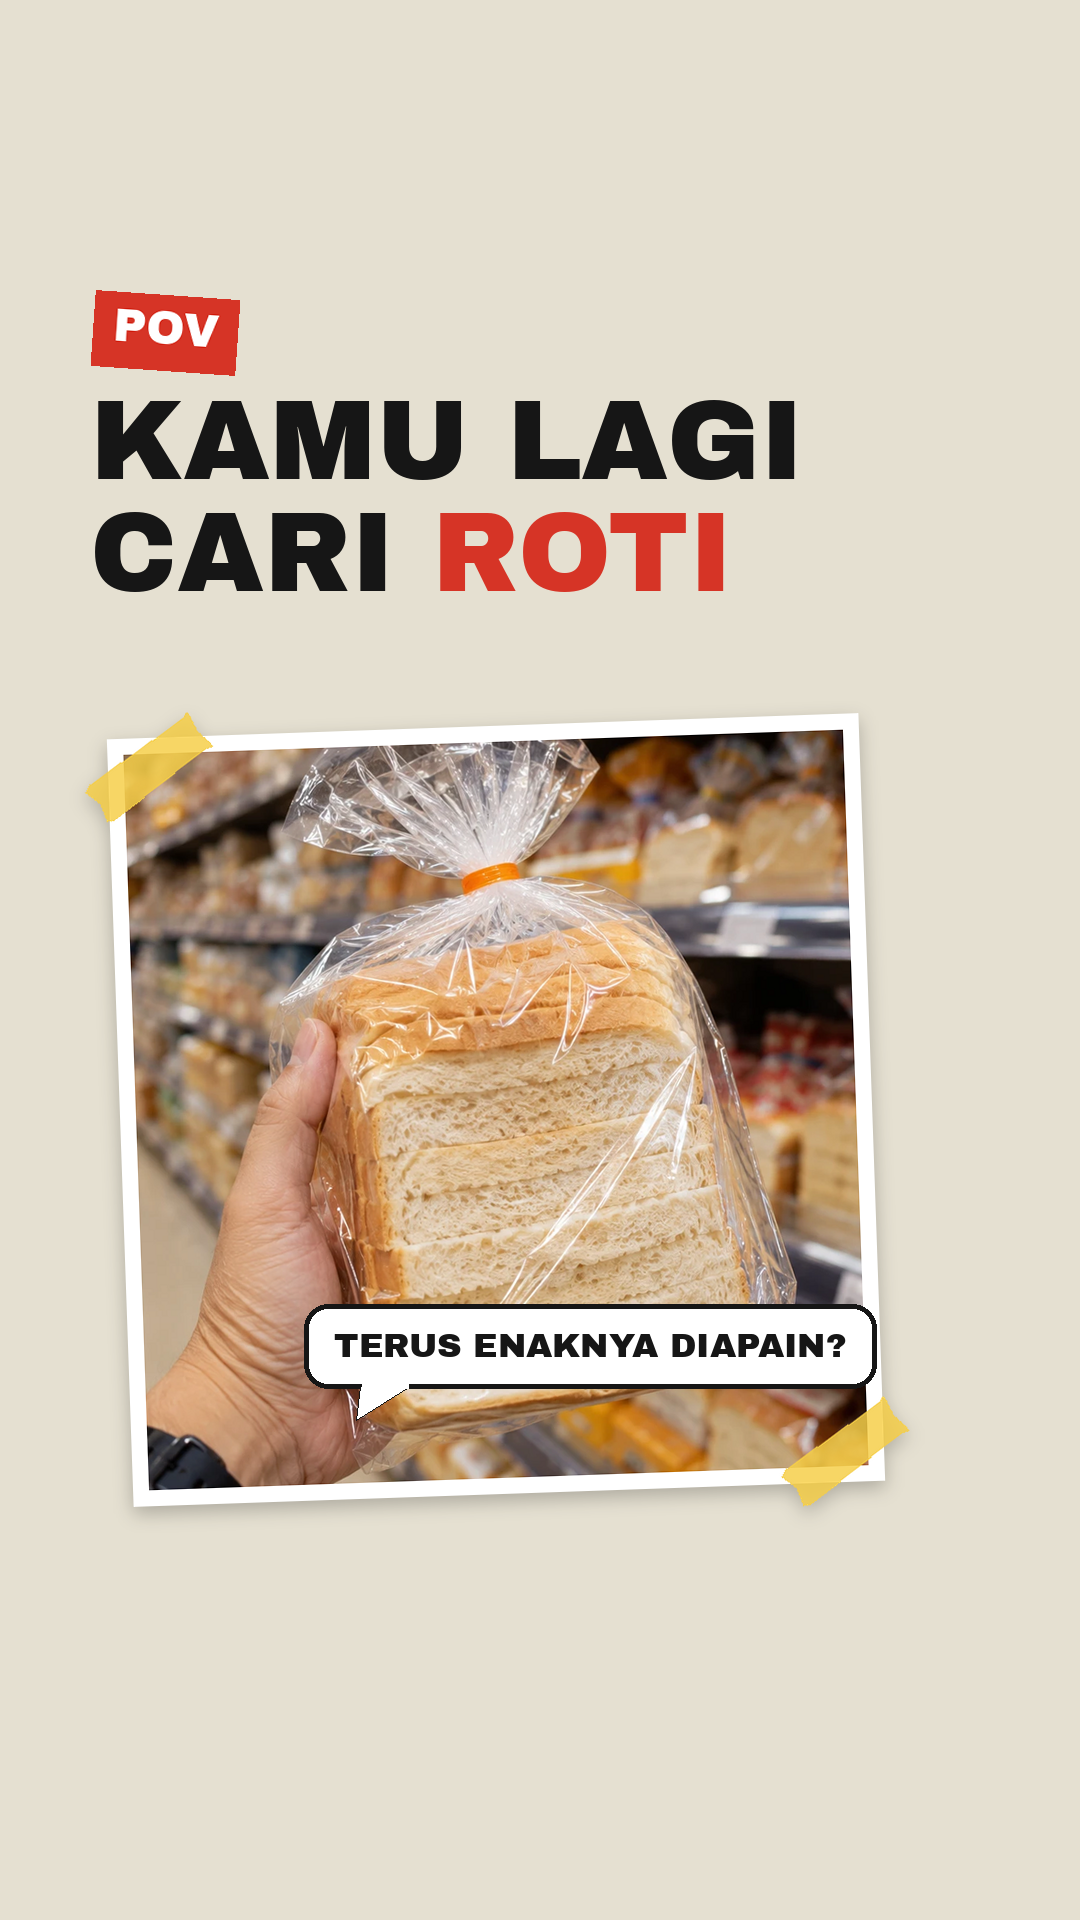
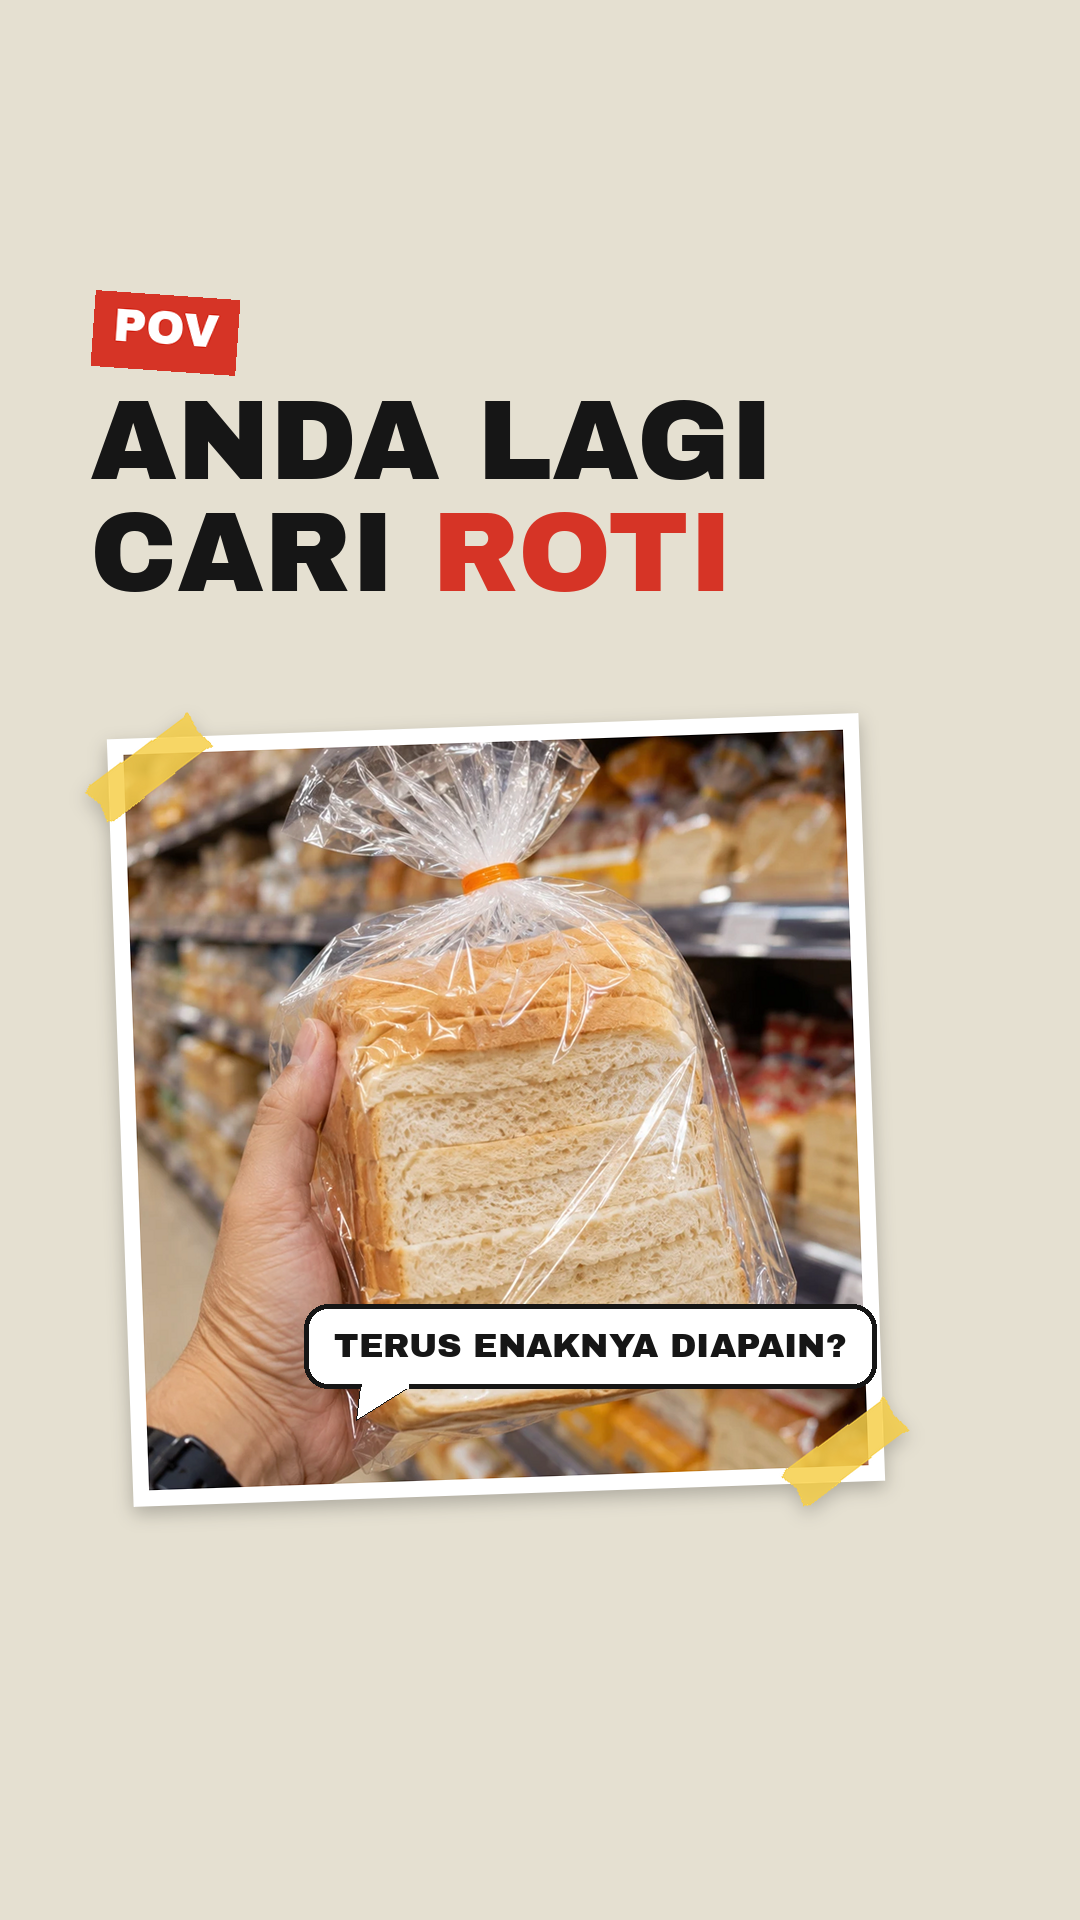
v9 frames: 'anda' wording, long-sleeve SPG poses, closing scene without customer
Claude-Session: https://claude.ai/code/session_01HJTnHN98UwcZe7n2i8WeX4

Changed region(s): [[0.0917, 0.1875, 0.7333, 0.25]]

diff --git a/projects/prochiz/keyvisual/src/board7.py b/projects/prochiz/keyvisual/src/board7.py
@@ -118,7 +118,7 @@ def t03(L):          # entrance: tall taped photo left, SPG walking out of it on
     y = T(L, [[("WAKTU MASUK KE", INKK)], [("SUPERMARKET", RED)]], 300, 100)
     w, s = title_w("SUPERMARKET", 100); under(L, 90, int(y) - 4, w, 4)
     P(L, photo(Image.open(A + "new/entrance.png").convert("RGB"), 560, tapes=("tr", "bl")), 398, 1060, rot=-2)
-    sp = spg("walk", 860); AC(L, sp, (SR - sp.width - 6, 1480 - sp.height))
+    sp = spg("long_walk", 860); AC(L, sp, (SR - sp.width - 6, 1480 - sp.height))
     AC(L, tag("MASUK", 40, WHITE, RED, -4), (150, 1390))
 
 def t04(L):          # one tall wall, Prochiz logo glowing in the slot, ribbon tag
@@ -160,12 +160,12 @@ def t07(L):          # giant word + burst, two taped cards with a brush arrow, S
 def t08(L):          # wide taped aisle photo across the top half, SPG waving in front, red pin
     T(L, [[("SPG DI LORONG", INKK)], [("ROTI", INKK), ("TAWAR", RED)]], 300, 100)
     P(L, photo(AISLE, 820, crop=(200, 0, 1472, 941), tapes=("tl", "tr")), CX - 10, 900, rot=-1.5)
-    sp = spg("wave", 900, 0.80); AC(L, sp, (SR - sp.width - 10, 1480 - sp.height))
+    sp = spg("long_wave", 900, 0.80); AC(L, sp, (SR - sp.width - 10, 1480 - sp.height))
     B6.dot_only(L, 300, 900, 13)
 
 def t09(L):          # POV: photo fills the middle, question bubble, POV tag
     AC(L, tag("POV", 46, WHITE, RED, -4), (90, 290))
-    T(L, [[("KAMU LAGI", INKK)], [("CARI", INKK), ("ROTI", RED)]], 380, 112)
+    T(L, [[("ANDA LAGI", INKK)], [("CARI", INKK), ("ROTI", RED)]], 380, 112)
     P(L, photo(POV, 720, crop=(380, 0, 1300, 941)), CX - 20, 1110, rot=2)
     AC(L, bubble("TERUS ENAKNYA DIAPAIN?", 34), (300, 1300))
 
@@ -178,14 +178,14 @@ def t10(L):          # answer: product photo + cheese sandwich photo, stamp
     AC(L, stamp("COCOK DIPASANGKAN", 44, -6), (110, 1360))
 
 def t11(L):          # two taped panels, two-tone tags above, VS badge
-    T(L, [[("KALAU KAMU OWNER:", INKK)], [("TUNGGU ATAU", INKK), ("PINDAH?", RED)]], 300, 84)
+    T(L, [[("KALAU ANDA OWNER:", INKK)], [("TUNGGU ATAU", INKK), ("PINDAH?", RED)]], 300, 84)
     pw, ph = 400, 720
     def panel(img, fig, fh, cross=False):
         base = cover(img, pw, ph, 0.5, 0.5).convert("RGBA"); f2 = fig.resize((int(fig.width * fh / fig.height), fh), Image.LANCZOS); base.alpha_composite(f2, ((pw - f2.width) // 2, ph - fh))
         if cross: d = ImageDraw.Draw(base); d.line((80, 150, 320, 380), fill=RED + (255,), width=12); d.line((320, 150, 80, 380), fill=RED + (255,), width=12)
         return base
     P(L, photo(panel(WALL, CUST3_X, 600, True), pw, tapes=("tl",)), SL + 20 + pw / 2, 1050, rot=-2)
-    P(L, photo(panel(AISLE, spg("offer", 700), 640), pw, tapes=("tr",)), SR - 20 - pw / 2, 1050, rot=2)
+    P(L, photo(panel(AISLE, spg("long_offer", 700), 640), pw, tapes=("tr",)), SR - 20 - pw / 2, 1050, rot=2)
     AC(L, tag("MENUNGGU", 30, WHITE, INKK, -3), (SL + 30, 600)); t = tag("MENDATANGI", 30, WHITE, RED, 3); AC(L, t, (SR - 30 - t.width, 600))
     v = Image.new("RGBA", (110, 110), (0, 0, 0, 0)); ImageDraw.Draw(v).ellipse((0, 0, 109, 109), fill=INKK + (255,)); ImageDraw.Draw(v).text((55, 55), "VS", font=af(40), fill=WHITE + (255,), anchor="mm"); AC(L, v, (CX - 55, 1000))
 
@@ -213,9 +213,8 @@ def t14(L):          # scenes 14 + 15 merged: the guerrilla move in one picture 
     T(L, [[("MEREBUT", INKK), ("PERHATIAN,", INKK)], [("MEMPERLUAS", INKK)], [("PENETRASI", RED), ("PASAR.", RED)]], 300, 92)
     pw, ph = 820, 660
     base = cover(AISLE, pw, ph, 0.45, 0.5).convert("RGBA")
-    cu = CUST2_X.resize((int(CUST2_X.width * 560 / CUST2_X.height), 560), Image.LANCZOS); base.alpha_composite(cu, (40, ph - 560))
-    so = spg("offer", 600); base.alpha_composite(so, (pw - so.width - 30, ph - 600))
-    b = burst(46, col=WHITE, angles=(-150, -110, -70), width=7); base.alpha_composite(b, (pw - so.width - 30 + int(so.width * 0.06), ph - 600 + 10))
+    so = spg("long_offer", 600); sx_ = pw - so.width - 60; base.alpha_composite(so, (sx_, ph - 600))
+    b = burst(46, col=WHITE, angles=(-150, -110, -70), width=7); base.alpha_composite(b, (sx_ - 10, ph - 600 + 40))
     P(L, photo(base, pw, tapes=("tl", "br")), CX, 1010, rot=-1.5)
     AC(L, tag("STRATEGI GERILYA PROCHIZ", 30, WHITE, RED, -3), (SL + 10, 650))
     c = Image.new("RGBA", (330, 150), WHITE + (255,)); d = ImageDraw.Draw(c); d.text((18, 14), "PENETRASI PASAR", font=af(22), fill=INKK + (255,))

diff --git a/projects/prochiz/keyvisual/src/cutout2.py b/projects/prochiz/keyvisual/src/cutout2.py
@@ -1,0 +1,31 @@
+"""Cutout for subjects on a neutral light-grey studio backdrop: colour/brightness seeds -> GrabCut -> cleanup."""
+import sys, cv2, numpy as np
+def cut(src, out, nobottom=False):
+    im = cv2.imread(src); h, w = im.shape[:2]; lab = cv2.cvtColor(im, cv2.COLOR_BGR2LAB).astype(np.float32)
+    L = lab[..., 0]; ch = np.hypot(lab[..., 1] - 128, lab[..., 2] - 128)
+    bgL = np.median(L[:20, :]); bgc = np.median(ch[:20, :])
+    fg_sure = (ch > bgc + 22) | (L < bgL - 95) | (L > bgL + 22)            # red/skin/yellow, black, bright white plate
+    bg_like = (np.abs(L - bgL) < 12) & (ch < bgc + 7)
+    m = np.full((h, w), cv2.GC_PR_BGD, np.uint8)
+    m[(ch > bgc + 12) | (L < bgL - 60) | (L > bgL + 14)] = cv2.GC_PR_FGD
+    far = cv2.dilate(fg_sure.astype(np.uint8), np.ones((31, 31), np.uint8)) == 0
+    m[bg_like & far] = cv2.GC_BGD
+    m[cv2.erode(fg_sure.astype(np.uint8), np.ones((5, 5), np.uint8)) > 0] = cv2.GC_FGD
+    bg = np.zeros((1, 65)); fg = np.zeros((1, 65)); cv2.grabCut(im, m, None, bg, fg, 6, cv2.GC_INIT_WITH_MASK)
+    k = ((m == cv2.GC_FGD) | (m == cv2.GC_PR_FGD)).astype(np.uint8)
+    n, lbl, st, _ = cv2.connectedComponentsWithStats(k)
+    keep = np.zeros_like(k)
+    big = 1 + np.argmax(st[1:, cv2.CC_STAT_AREA]); keep[lbl == big] = 1
+    for i in range(1, n):                                                   # keep small detached parts that are clearly subject (cheese sample on a toothpick)
+        if i != big and st[i, cv2.CC_STAT_AREA] > 150 and (fg_sure & (lbl == i)).mean() > 0: keep[lbl == i] = 1 if (fg_sure[lbl == i].mean() > 0.4) else 0
+    keep = cv2.morphologyEx(keep, cv2.MORPH_CLOSE, np.ones((5, 5), np.uint8))
+    pad = cv2.copyMakeBorder(keep, 1, 1, 1, 1, cv2.BORDER_CONSTANT, value=0); inv = (1 - pad).astype(np.uint8); fm = np.zeros((pad.shape[0] + 2, pad.shape[1] + 2), np.uint8)
+    cv2.floodFill(inv, fm, (0, 0), 2); holes = (inv[1:-1, 1:-1] == 1); nh, lh, sh, _ = cv2.connectedComponentsWithStats(holes.astype(np.uint8))
+    for i in range(1, nh):
+        if sh[i, cv2.CC_STAT_AREA] < 2500 or not bg_like[lh == i].mean() > 0.8: keep[lh == i] = 1
+    if not nobottom:                                                        # floor shadow near the feet
+        zone = np.zeros((h, w), bool); zone[int(h * 0.85):] = True; keep[zone & bg_like] = 0
+        keep[zone & (np.abs(L - bgL) < 30) & (ch < bgc + 6) & (L > 90)] = 0
+    a = cv2.GaussianBlur(keep.astype(np.float32), (0, 0), 0.9); a = np.clip((a - 0.2) / 0.6, 0, 1)
+    cv2.imwrite(out, np.dstack([im, (a * 255).astype(np.uint8)]))
+if __name__ == "__main__": cut(sys.argv[1], sys.argv[2], len(sys.argv) > 3 and sys.argv[3] == "nobottom")
